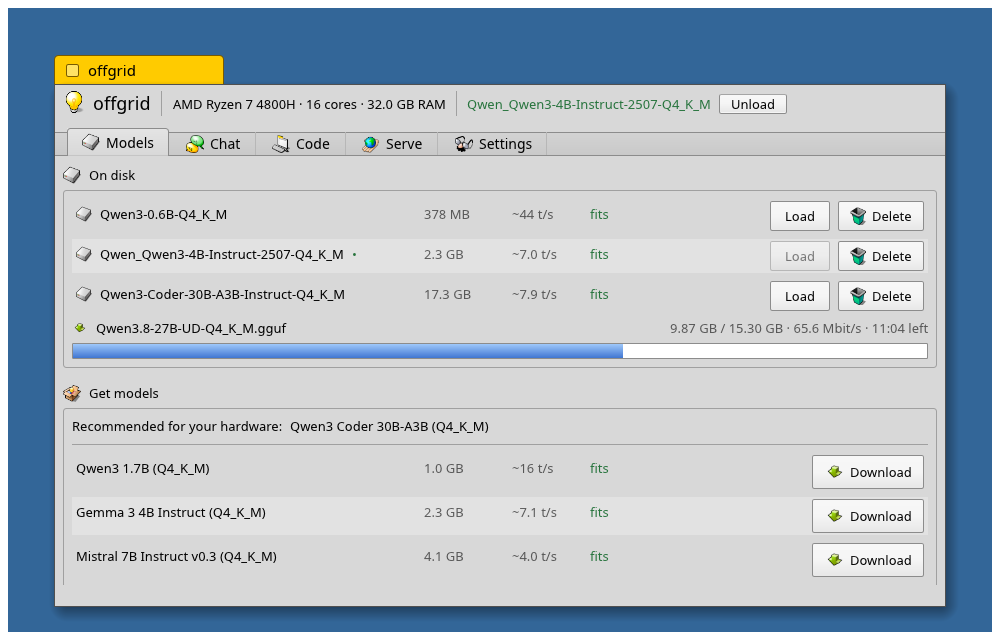
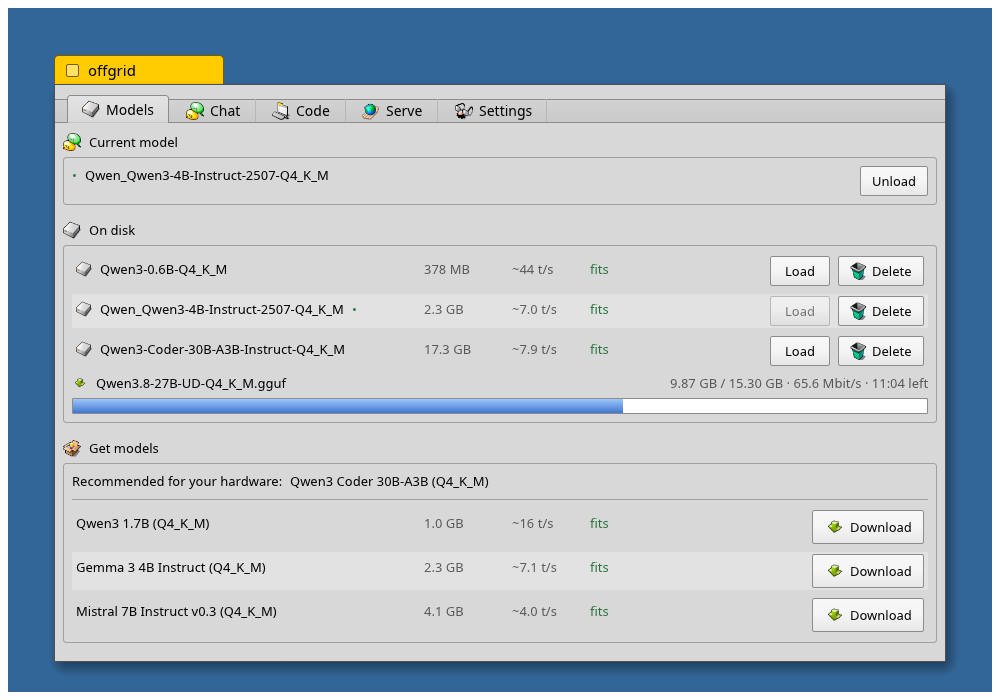
Simplify top bar; Current model section; settings gain Model/System groups
- Top bar is now a plain strip with just the tabs (Haiku style); logo,
  lightbulb, hardware line and model status removed
- Models tab gains a "Current model" group at the top (name, spinner
  while loading, right-aligned Unload)
- Settings gain a Model group (context-size dropdown — restoring a
  control an earlier edit silently dropped) and a System group
  (CPU/cores/RAM plus measured memory bandwidth)
- Unused logo icon removed from the icon sets

diff --git a/src/app.rs b/src/app.rs
@@ -479,33 +479,8 @@ impl OffgridApp {
     }
 
     fn top_bar(&mut self, ui: &mut egui::Ui) {
-        ui.add_space(4.0);
-        ui.horizontal(|ui| {
-            theme::icon(ui, theme::icons().logo.clone(), 22.0);
-            ui.heading(egui::RichText::new("offgrid").strong());
-            ui.separator();
-            ui.label(format!(
-                "{} · {} cores · {} RAM",
-                self.hardware.cpu_brand,
-                self.hardware.cores,
-                fmt_bytes(self.hardware.total_ram)
-            ));
-            ui.separator();
-            if self.model_loading {
-                ui.spinner();
-                ui.label("loading model…");
-            } else if let Some(name) = &self.loaded_model {
-                ui.colored_label(theme::skin().good, name);
-                let unload = ui.small_button("Unload");
-                theme::gloss(ui, unload.rect);
-                if unload.clicked() {
-                    let _ = self.llm.cmd_tx.send(LlmCmd::Unload);
-                }
-            } else {
-                ui.weak("no model loaded");
-            }
-        });
-        ui.add_space(4.0);
+        // Plain grey strip above the tabs, like Haiku's window layouts.
+        ui.add_space(6.0);
         theme::tab_bar(
             ui,
             &mut self.tab,
@@ -556,6 +531,48 @@ impl OffgridApp {
                 );
             },
         );
+
+        theme::group(ui, "Model", Some(theme::icons().chat.clone()), |ui| {
+            let row_h = theme::skin().control_height;
+            ui.horizontal(|ui| {
+                ui.allocate_ui_with_layout(
+                    egui::vec2(70.0, row_h),
+                    egui::Layout::left_to_right(egui::Align::Center),
+                    |ui| ui.label("Context:"),
+                );
+                let mut n_ctx = self.n_ctx();
+                egui::ComboBox::from_id_salt("n_ctx_select")
+                    .selected_text(format!("{n_ctx} tokens"))
+                    .show_ui(ui, |ui| {
+                        for v in [4096u32, 8192, 16384, 32768] {
+                            ui.selectable_value(&mut n_ctx, v, format!("{v} tokens"));
+                        }
+                    });
+                if n_ctx != self.n_ctx() {
+                    self.config.n_ctx = Some(n_ctx);
+                    self.config.save();
+                }
+            });
+            ui.weak(
+                "Larger context windows let agent tasks run longer before compaction, \
+                 at the cost of RAM (KV cache) and slower long-context generation.",
+            );
+        });
+
+        theme::group(ui, "System", Some(theme::icons().disk.clone()), |ui| {
+            ui.label(format!(
+                "{} · {} cores ({} physical) · {} RAM",
+                self.hardware.cpu_brand,
+                self.hardware.cores,
+                self.hardware.physical_cores,
+                fmt_bytes(self.hardware.total_ram)
+            ));
+            ui.weak(format!(
+                "Measured memory bandwidth: {}/s — this drives the tok/s estimates \
+                 in the model lists.",
+                fmt_bytes(self.hardware.mem_bandwidth)
+            ));
+        });
     }
 
     fn fit_badge(&self, ui: &mut egui::Ui, size: u64) {
@@ -574,6 +591,33 @@ impl OffgridApp {
 
     fn models_ui(&mut self, ui: &mut egui::Ui) {
         egui::ScrollArea::vertical().show(ui, |ui| {
+            theme::group(
+                ui,
+                "Current model",
+                Some(theme::icons().chat.clone()),
+                |ui| {
+                    ui.horizontal(|ui| {
+                        if self.model_loading {
+                            ui.spinner();
+                            ui.label("loading model…");
+                        } else if let Some(name) = self.loaded_model.clone() {
+                            ui.colored_label(theme::skin().good, "•");
+                            ui.label(&name);
+                            ui.with_layout(
+                                egui::Layout::right_to_left(egui::Align::Center),
+                                |ui| {
+                                    if theme::button(ui, None, "Unload").clicked() {
+                                        let _ = self.llm.cmd_tx.send(LlmCmd::Unload);
+                                    }
+                                },
+                            );
+                        } else {
+                            ui.weak("No model loaded — pick one below.");
+                        }
+                    });
+                },
+            );
+
             theme::group(ui, "On disk", Some(theme::icons().disk.clone()), |ui| {
                 if self.local_models.is_empty() {
                     ui.weak("No models yet — download one below.");
@@ -1737,18 +1781,7 @@ mod tests {
         egui::Panel::top("top")
             .show_separator_line(false)
             .show(ui, |ui| {
-                ui.add_space(4.0);
-                ui.horizontal(|ui| {
-                    theme::icon(ui, theme::icons().logo.clone(), 22.0);
-                    ui.heading(egui::RichText::new("offgrid").strong());
-                    ui.separator();
-                    ui.label("AMD Ryzen 7 4800H · 16 cores · 32.0 GB RAM");
-                    ui.separator();
-                    ui.colored_label(theme::skin().good, "Qwen_Qwen3-4B-Instruct-2507-Q4_K_M");
-                    let unload = ui.small_button("Unload");
-                    theme::gloss(ui, unload.rect);
-                });
-                ui.add_space(4.0);
+                ui.add_space(6.0);
                 let mut tab = Tab::Models;
                 theme::tab_bar(
                     ui,
@@ -1764,6 +1797,20 @@ mod tests {
             });
 
         egui::CentralPanel::default().show(ui, |ui| {
+            theme::group(
+                ui,
+                "Current model",
+                Some(theme::icons().chat.clone()),
+                |ui| {
+                    ui.horizontal(|ui| {
+                        ui.colored_label(theme::skin().good, "•");
+                        ui.label("Qwen_Qwen3-4B-Instruct-2507-Q4_K_M");
+                        ui.with_layout(egui::Layout::right_to_left(egui::Align::Center), |ui| {
+                            let _ = theme::button(ui, None, "Unload");
+                        });
+                    });
+                },
+            );
             theme::group(ui, "On disk", Some(theme::icons().disk.clone()), |ui| {
                 let rows: [(&str, u64, bool); 3] = [
                     ("Qwen3-0.6B-Q4_K_M", 396_705_472, false),
@@ -1845,7 +1892,7 @@ mod tests {
     #[test]
     fn main_screen_snapshot() {
         let mut harness = egui_kittest::Harness::builder()
-            .with_size(egui::vec2(1000.0, 640.0))
+            .with_size(egui::vec2(1000.0, 700.0))
             .build_ui(desktop_ui);
         harness.run();
         harness.snapshot("offgrid");

diff --git a/src/theme.rs b/src/theme.rs
@@ -199,7 +199,6 @@ pub fn skin() -> &'static Skin {
 /// The icon set is part of the skin: Haiku uses the original Haiku artwork,
 /// the other styles use a neutral line-icon set.
 pub struct IconSet {
-    pub logo: egui::ImageSource<'static>,
     pub disk: egui::ImageSource<'static>,
     pub chat: egui::ImageSource<'static>,
     pub serve: egui::ImageSource<'static>,
@@ -214,7 +213,6 @@ pub struct IconSet {
 }
 
 pub static HAIKU_ICONS: IconSet = IconSet {
-    logo: egui::include_image!("../assets/icons/Alert_Idea.png"),
     disk: egui::include_image!("../assets/icons/Device_Harddisk.png"),
     chat: egui::include_image!("../assets/icons/App_Chat.png"),
     serve: egui::include_image!("../assets/icons/Server_Net.png"),
@@ -229,7 +227,6 @@ pub static HAIKU_ICONS: IconSet = IconSet {
 };
 
 pub static NEUTRAL_ICONS: IconSet = IconSet {
-    logo: egui::include_image!("../assets/icons/neutral/logo.png"),
     disk: egui::include_image!("../assets/icons/neutral/disk.png"),
     chat: egui::include_image!("../assets/icons/neutral/chat.png"),
     serve: egui::include_image!("../assets/icons/neutral/serve.png"),
